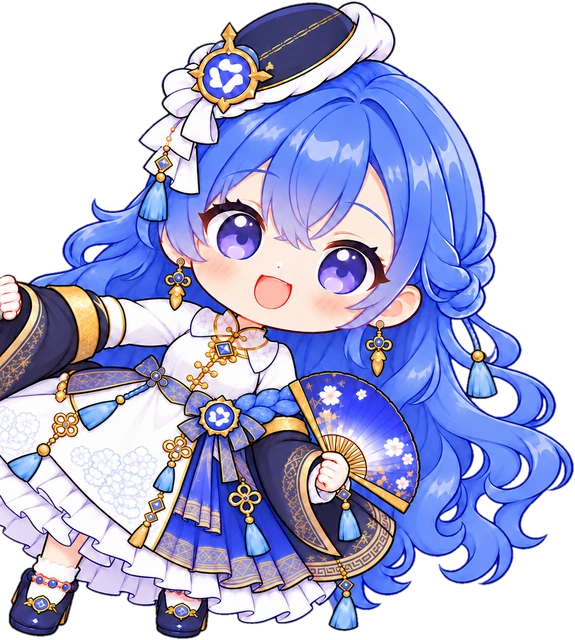
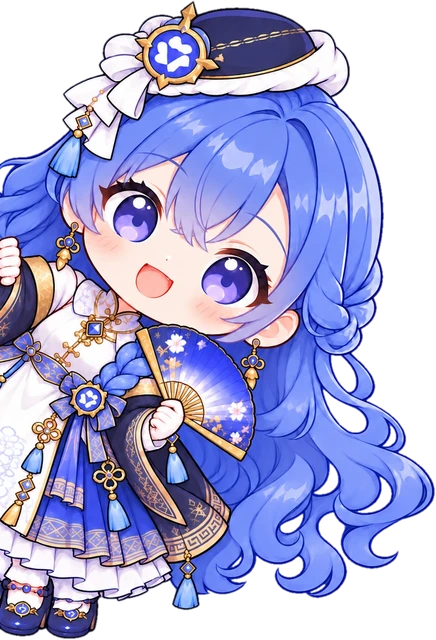
千问两张探出来重画（手不再拉长）；1.3.8 角色页卡片墙设计和展示立绘提示词

diff --git a/docs/prompts/展示立绘/README.md b/docs/prompts/展示立绘/README.md
@@ -1,0 +1,83 @@
+# 展示立绘（设置 → 角色页的卡片大图）
+
+设置的「角色」页改成卡片墙：上面一排是当前角色的衣服（大卡片），下面一排是所有角色（小卡片）。每个角色、每套衣服各画一张专门的展示图，像游戏选人界面的角色卡。卡片底色由程序按角色主题色画，图本身是透明背景。
+
+一共 10 张：
+
+| 卡片 | 存到 | 附件（设计参考） | 角色锁定从哪抄 |
+|---|---|---|---|
+| Claude | `characters/claude/raw/portrait.png` | `docs/prompts/ref-claude.webp` | `角色生图提示词.md` · Claude |
+| GPT | `characters/gpt/raw/portrait.png` | `docs/prompts/ref-gpt.webp` | `角色生图提示词.md` · GPT |
+| GPT · 降智龙崽 | `characters/gpt-onesie/raw/portrait.png` | `characters/gpt-onesie/raw/idle.png` | `皮肤-降智龙GPT/01-基础.md` |
+| DeepSeek · 女仆装 | `characters/deepseek/raw/portrait.png` | `docs/prompts/ref-deepseek.webp` | `角色生图提示词.md` · DeepSeek |
+| DeepSeek · Claude 卫衣 | `characters/deepseek-hoodie/raw/portrait.png` | `characters/deepseek-hoodie/raw/idle.png` | `皮肤-卫衣DeepSeek/01-基础.md` |
+| DeepSeek · 睡衣 | `characters/deepseek-pajamas/raw/portrait.png` | `characters/deepseek-pajamas/raw/idle.png` | `皮肤-睡衣DeepSeek/01-基础.md` |
+| DeepSeek · 冬装 | `characters/deepseek-winter/raw/portrait.png` | `characters/deepseek-winter/raw/idle.png` | `皮肤-冬装DeepSeek/01-基础.md` |
+| Gemini | `characters/gemini/raw/portrait.png` | `docs/prompts/ref-gemini.webp` | `角色生图提示词.md` · Gemini |
+| GLM | `characters/glm/raw/portrait.png` | `characters/glm/raw/ref-glm.png` | `角色生图提示词.md` · GLM |
+| Qwen（千问） | `characters/qwen/raw/portrait.png` | `docs/prompts/ref-qwen.webp` | `角色-千问/01-基础.md` |
+
+## 怎么用
+
+1. 生图工具开 `transparent_background: true`，尺寸选竖版 **1024×1536**。
+2. 每张单独发，按顺序拼：下面的「展示图格式规则」→ 这个角色的「角色锁定」（从上表那个文件里整段复制 `CHARACTER LOCK` 那一段）→ 下面这张的「POSE」那一行。附件只附这一张的参考图。
+3. **先画 DeepSeek 女仆装一张试稿**，看大小、构图满意了再画其余 9 张；其余的都把这张试稿也附上，说明「framing reference only」，保证 10 张头顶、脚底的位置一致，排在一起整齐。
+4. 画好放进上表的 `raw/` 文件夹，告诉我导入。
+
+## 展示图格式规则（每张都贴在最前面）
+
+```
+You are drawing a CHARACTER SELECT portrait for an existing chibi character, like the big character card art in a game's character select screen. The first attached image is the ONLY design reference.
+
+FORMAT RULES:
+- Transparent background: real transparency (alpha). No scenery, no floor, no ground shadow, no glow, no frame, no card border. The app draws the card background itself.
+- No text, no letters, no numbers, no logos other than those already on her outfit, no speech bubbles, no floating symbols or effects (no sparkles, hearts, stars, snowflakes, music notes).
+- Portrait image 1024x1536 (2:3). Exactly one character, full body, centered. Her head starts a little below the top edge (a small empty margin above the hair) and her feet are near the bottom edge; she fills about 90% of the image height.
+- If a second image is attached as "framing reference only", match its head height, foot position and overall size exactly, but ignore its character design.
+- A continuous, closed dark outline around the whole silhouette, so the edges stay clean against any card color.
+- Same art style as the reference: clean lineart, flat two-tone cel shading, soft palette, chibi about 2.5 heads tall, big head, round soft shapes. This is a showcase picture, so draw it with a bit more care and detail than a normal sprite (cleaner hair strands, crisp ornaments), but it must still look like the same character in the same style.
+- Hair, accessories, outfit, colors and body features stay EXACTLY as in the reference.
+- A confident "this is me!" showcase pose: a slight three-quarter turn toward the viewer, eyes looking at the viewer, a pose that shows off her signature items. Keep the pose compact: elbows bent, hands close to her body, nothing reaching out of the picture, no long stretched arms. Every prop she holds TOUCHES her hand.
+```
+
+## 每张的 POSE（接在角色锁定后面）
+
+```
+POSE (save as portrait.png) — Claude: holding her open book against her chest with one arm, the other hand raised to shoulder height in a small, shy wave; a soft, warm smile; her cape collar and hair ribbon swaying slightly as if a gentle breeze passed.
+```
+
+```
+POSE (save as portrait.png) — GPT: standing tall and elegant, her small dragon wings half spread, her long tail curling around in front of her feet; one hand resting lightly at her chest, the other holding the edge of her translucent sleeve; a calm, confident small smile with half-lidded eyes.
+```
+
+```
+POSE (save as portrait.png) — GPT dragon-cub onesie: a small happy hop with both sleeve-paws raised to her cheeks, head tilted, the floppy stuffed horn bouncing, plush wings fluttering, the fat tail swaying up behind her; a gentle closed-eye smile with a little blush.
+```
+
+```
+POSE (save as portrait.png) — DeepSeek maid: a cheerful wink with a peace sign next to her face, the other hand holding a small bowl of white rice at her waist; her whale tail curled up high and wagging, the ahoge bouncing; a big bright grin.
+```
+
+```
+POSE (save as portrait.png) — DeepSeek in the Claude hoodie: hands stuffed in the hoodie pocket, chest puffed out to proudly show off the "Claude" name badge, leaning back a little; a cheeky, smug grin with one eye half closed; whale tail swishing.
+```
+
+```
+POSE (save as portrait.png) — DeepSeek in pajamas: hugging her whale pillow with both arms, her cheek resting on top of it, standing on her tiptoes in her fluffy slippers; a sleepy, content smile with eyes half closed; whale tail curled lazily.
+```
+
+```
+POSE (save as portrait.png) — DeepSeek in the winter coat: bundled up and waving with one mittened hand, the other hand tugging her scarf up to her chin; rosy cheeks and a bright happy smile; whale tail peeking out under the coat hem.
+```
+
+```
+POSE (save as portrait.png) — Gemini: a playful cat pose, one paw-hand raised beside her face, the other on her hip, leaning forward slightly; her signature ":3" cat smile and a wink; ears perked, tail curled into a question-mark shape, star charms swinging.
+```
+
+```
+POSE (save as portrait.png) — GLM: hugging her black "Z" book to her chest with one arm, a finger of the other hand on her lips as if keeping a secret; a sly closed-eye fox smile; her big fox tail wrapping forward around her side, the bells on her ribbon swaying.
+```
+
+```
+POSE (save as portrait.png) — Qwen: holding her open fan gracefully beside her face, the small white-and-gold handbag hanging from the other arm; a gentle, generous "rich big-sister" smile; braid and tassels swaying softly.
+```

diff --git a/docs/superpowers/specs/2026-10-20-character-picker-design.md b/docs/superpowers/specs/2026-10-20-character-picker-design.md
@@ -1,0 +1,70 @@
+# 角色页卡片墙（选角色、选衣服）· 设计
+
+日期：2026-10-20　状态：方向 loki 已口头确认，待审阅本文；放 1.3.8 做（loki 定）
+来源：角色和皮肤越来越多，右键「换角色」展开的名单一长串，要翻半天才找到（loki）
+
+## 为什么做
+
+现在换角色、换衣服靠右键菜单里的「换角色」子菜单。每套衣服各占一行（「DeepSeek · 女仆装」「DeepSeek · Claude 卫衣」……），已经十几行，以后还会更多。loki 想要游戏选人界面那样的体验：每个角色、每套衣服各有一张大立绘，看着图点选。和角色有关的设置也集中到同一页。
+
+## 目标
+
+- 设置的「角色」页改成卡片墙（loki 从三种方案里选了 A「卡片墙」，并要求衣服在上、角色在下）
+- 每个角色、每套衣服各有一张新画的展示立绘（loki 定：新画，不用现有待机图）
+- 右键菜单的「换角色」保留，点它直接打开设置的角色页，不再展开名单（loki 定）
+- Mac 和 Windows 一起做
+
+不做：
+- 「召唤彩蛋」不搬，留在右键菜单里（loki 定）
+- 不改换角色的规则本身：跟随前台 AI、跟随工作事件、每个角色记住上次穿的衣服，这些照旧
+
+反目标（做出来但算失败的样子）：
+- 还没画展示图的角色（用户自己加的角色、以后新加的皮肤）显示成空卡片或破图
+- 设置窗口里点卡片后，桌宠没换或换错衣服
+- 卡片墙在角色多了以后挤成一团、名字看不清
+
+## 一、角色页从上到下
+
+1. **当前角色的衣服**：一排大卡片，每套衣服一张，显示展示立绘和衣服名（原版显示 `outfit` 名，比如「女仆装」；没有 `outfit` 的显示「原版」）。点一张，桌宠马上穿上。正在穿的那张有高亮框。只有一套衣服的角色，这一排只有一张卡。
+2. **她自己的设置**（只对当前这个角色）：
+   - 名字（现有的「名字 / 保存」，搬到这里）
+   - 有峰谷规则的角色（`peak-hours.js` 的 `RULES` 里有的，现在是 DeepSeek、GLM）且有别的衣服：「高峰穿 / 空闲穿」两个下拉。从「额度」页搬过来，只显示当前角色那一组（我的决定）。额度页不再保留这一项
+   - 放在衣服下面（我的决定）
+3. **所有角色**：一排小卡片，每个角色一张（彩蛋角色不出现，皮肤不单独占卡片）。卡片显示这个角色**原版**的展示立绘和名字；有几套衣服的在右上角标数字。点卡片：桌宠马上换成她，**穿原版**（loki 定），上面那排同时换成她的衣服。当前角色的卡片有高亮框。「穿原版」就是把她记住的衣服也改成原版（之后跟随前台 AI 切回她时也是原版），直接用现有的 `{cmd:'skin', id, skin:''}`；她已经是当前角色、正穿着别的衣服时点她的卡，同样换回原版（都是我的决定：点角色卡 = 选这个角色的原版，规则只有一条）
+4. **通用开关**：跟随前台 AI 应用、跟随 AI 工作事件、随机彩蛋，原样放在最下面（我的决定）
+
+卡片底色用角色的 `accent` 主题色做浅色渐变（展示图是透明背景，底色由程序画）。
+
+## 二、展示立绘
+
+- 每个角色文件夹里一张 `portrait.webp`（皮肤文件夹里也各一张）。生图提示词：`docs/prompts/展示立绘/README.md`，竖版 2:3、透明背景、全身、10 张统一构图
+- 导入：从 `raw/portrait.png` 生成，裁掉空白后缩放到统一高度（具体高度留给实现，够设置页大卡片在 2 倍屏上清楚就行）。不走贴边 / 眨眼那些处理
+- **没有 `portrait.webp` 的**（用户自己加的角色、还没画的皮肤）：用她的 `idle` 立绘代替，卡片照常显示
+- `portrait` 不是姿态：不进 `poses`，桌宠本身不会用到它。两个外壳扫立绘时会把文件夹里所有 webp 当姿态（Mac `App+Characters.swift`、Windows `Store.cs`），要把 `portrait.webp` 排除掉
+- `docs/自定义角色.md` 补一句：可以放一张 `portrait.webp` 当设置页的卡片图，不放就用待机图
+
+## 三、右键菜单
+
+- 「换角色」保留在原来的位置，不再有子菜单；点了打开设置窗口并切到「角色」页（设置已经开着就切过去、拿到前台）
+- 只有一个角色时，和现在一样不显示这一项
+- Windows 的右键菜单同样改
+
+## 四、程序分工
+
+- `settings.html`：角色页改版。现在外壳已经把 `characters`（含每个角色的 `skins`）、`character`、当前衣服交给设置页；另外需要每个角色 / 每套衣服的卡片图地址和 `accent`
+- 换角色：沿用现有消息。点角色卡 = 换角色并穿原版（现有的 `{cmd:'skin', id, skin:''}` 或先换角色再换衣服，看哪个能一步到位，实现时定）；点衣服卡 = `{cmd:'skin', id, skin}`
+- 设置页打开时要能跳到「角色」页（「新功能」卡片已经有按页跳转的机制，可以复用）
+- 两个外壳：右键「换角色」改成打开设置角色页；设置页的角色数据里加卡片图地址
+- 卡片图的地址：设置页要能加载到角色文件夹里的图（Mac 在 App 包里或用户角色目录，Windows 在数据目录），具体怎么给（文件地址、虚拟主机映射、data URL）留给实现，跟现有设置页能看到的资源方式保持一致
+
+## 五、测试
+
+- 设置页逻辑能抽成纯函数的（卡片列表怎么排、哪张高亮、没有展示图时退回待机图）写 node 测试
+- Mac 实测：点角色卡、点衣服卡、右键「换角色」打开到角色页、用户自定义角色没有展示图时的样子、峰谷换装下拉只在 DeepSeek / GLM 出现
+- Windows 由 Codex 跑一轮
+
+## 留给实现的
+
+- 设置窗口要不要加宽、卡片具体尺寸、一行放几张
+- 角色很多时小卡片一行放不下：换行还是横向滚动
+- 展示图导入后的统一高度
